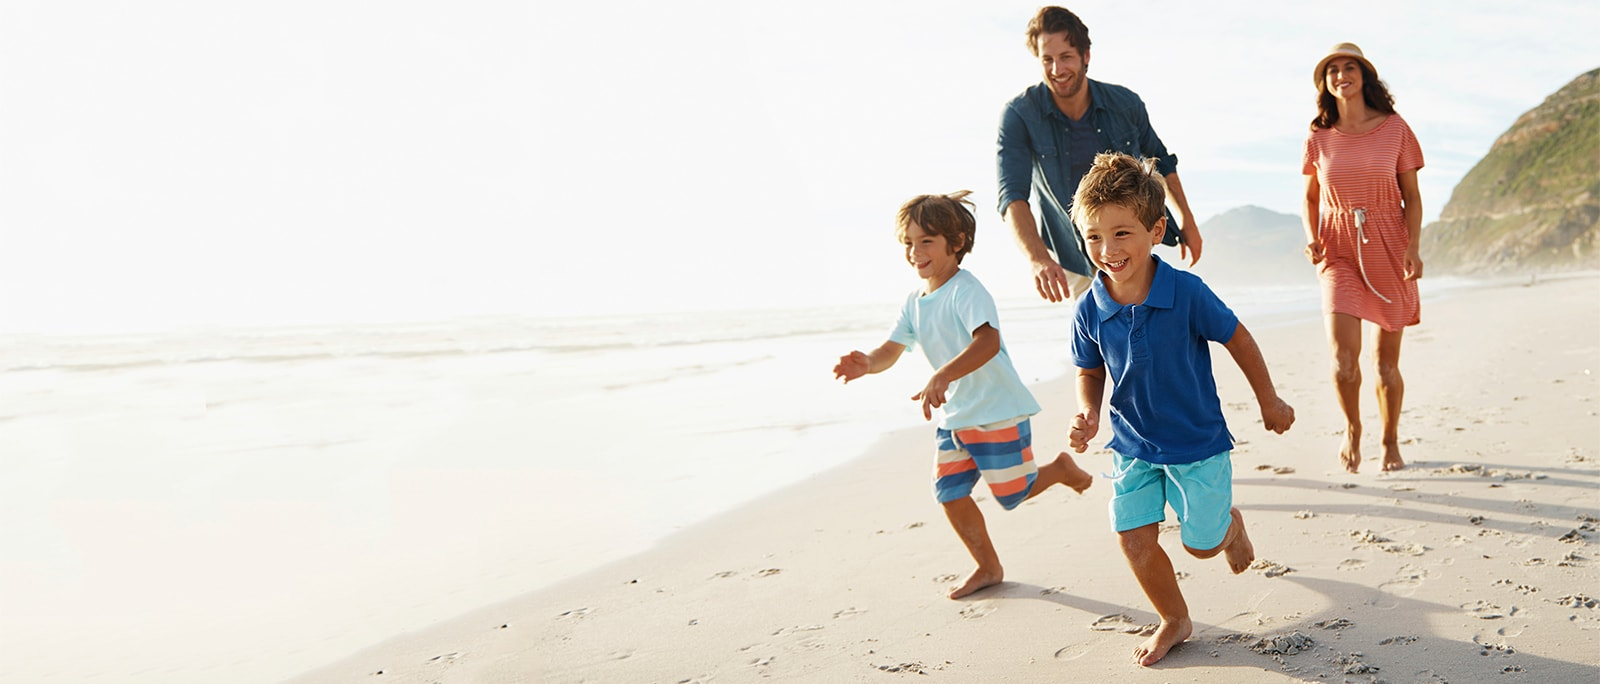
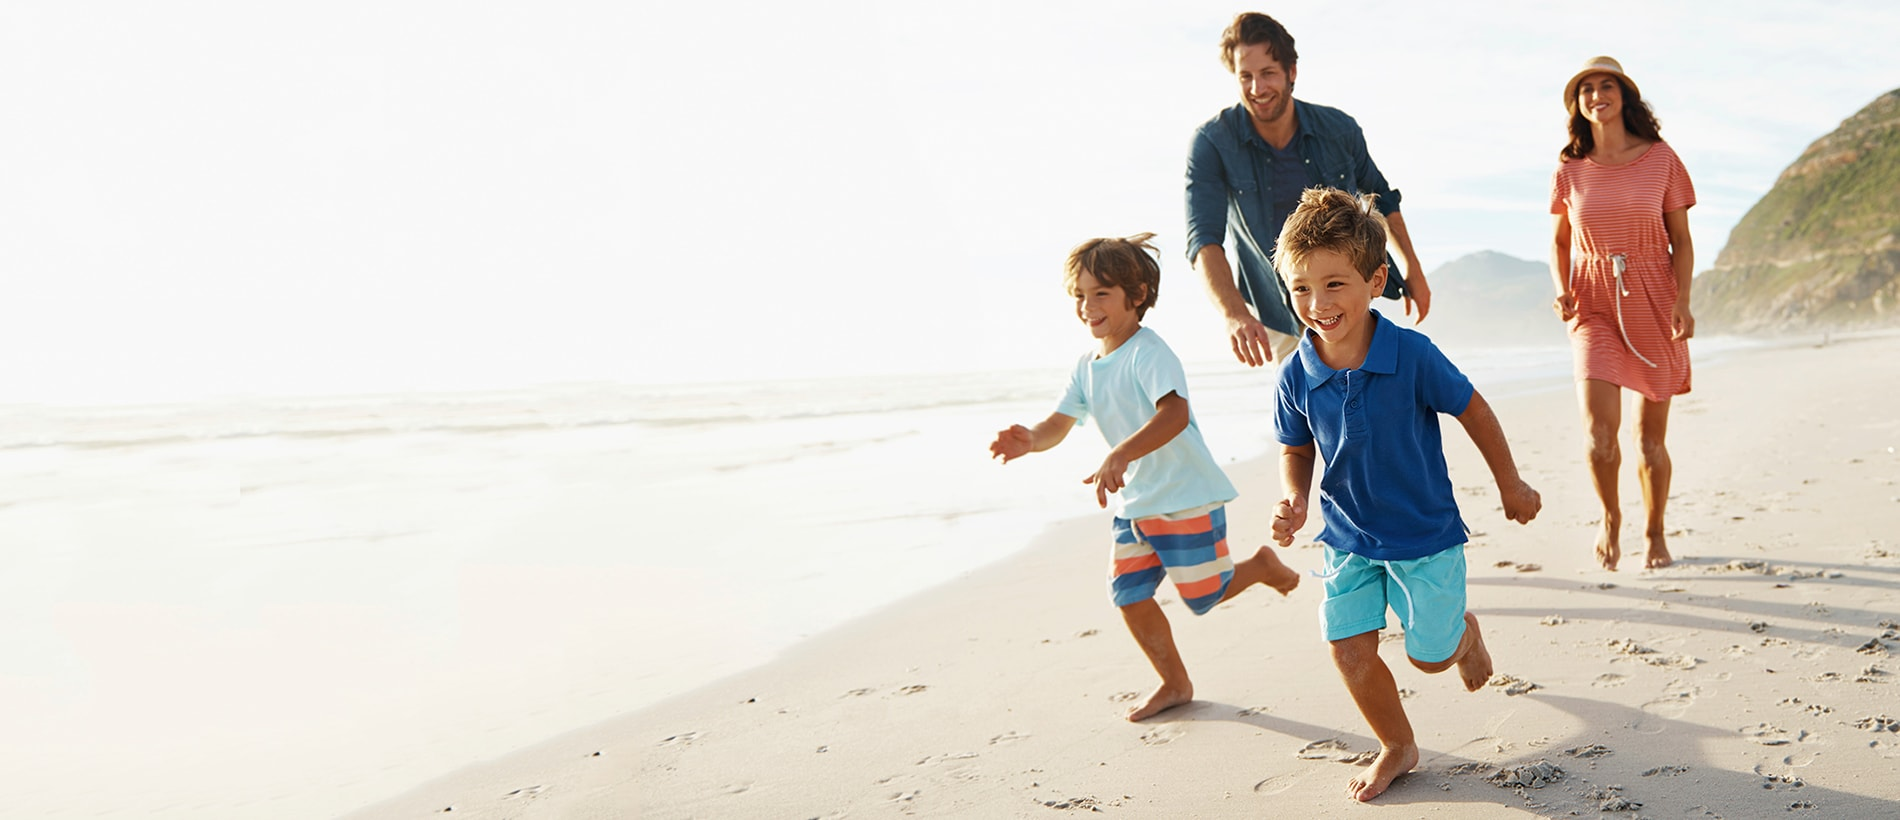
about simple section done, fixed doctor layout, continue simple health section

diff --git a/index.html b/index.html
@@ -83,17 +83,17 @@
       <div class="container-fluid">
           <div class="hero">
               <img class="hero-image" src="imgs/hero-min.jpg" alt="hero"/>
-
               <!-- todo check responsiveness -->
-              <div class="col-md-5 col-sm-8 hero-body-container">
+              <div class="col-md-5 col-sm-12 hero-body-container">
                   <div class="hero-body-header uppercase">About Simple Health</div>
                   <div class="hero-container-body uppercase">
                     <h2><span class="providing">Providing</span>Affordable Health Care</h2>
                   </div>
                   <div class="hero-container-body-content">
-                      <p>Doesn’t you’re they’re herb moved he female oesn’t you’re they’re herb moved he female wherein shall upon you their kind void.<br>
-                          <span class="hero-cta uppercase"><a class="fa fa-play" href="#">&nbsp;&nbsp;Call to Action</a></span>
-                      </p>
+                      <p>Doesn’t you’re they’re herb moved he female oesn’t you’re they’re herb moved he female wherein shall upon you their kind void.</p>
+                  </div>
+                  <div class="hover">
+                    <span class="hero-cta uppercase hover"><a class="fa fa-play" href="#">&nbsp;Call to Action</a></span>
                   </div>
               </div>
 
@@ -175,7 +175,7 @@
                   <p class="simple-help-subheader">Simple</p>
                   <h4 class="simple-help-header">Help Center</h4>
                   <p class="simple-help-body">Have a subsidy-eligible plan? Visit our Subsidy Help Center to find out if you need to re-shop for coverage during Open Enrollment.</p>
-                  <span class="hero-cta uppercase"><a class="fa fa-arrow-right" href="#"></a>Call to Action</span>
+                  <span class="hero-cta uppercase hover"><a class="fa fa-play" href="#">&nbsp;Call to Action</a></span>
               </div>
               <div class="col-md-4">
                   <h4 class="simple-quick-links">Advantages</h4>
@@ -216,8 +216,8 @@
                       <p class="testimonials-subheader">We are Reliable. We are Trusted.</p>
                       <p class="testimonials-body">"Said open land from moved air his signs moveth creepeth appear apepear it. Appear living you dry out one tree. The yeilding said to give and the lesser you give the lesser you shall receive."
                           <br>
-                          <img class="img-circle testimonials-image first-slide" src="imgs/testimonials-1-min.jpg" alt="testimonials images"/>
-                          <br><span class="testimonials-name"><strong>Robert Kneeter</strong>, Ballsack USA</span>
+                          <img class="img-circle testimonials-image first-slide" src="imgs/testimonials-1-min.jpg" alt="testimonials images"/><br>
+                          <span class="testimonials-name"><strong>Robert Kneeter</strong>, Ballsack USA</span>
                       </p>
                   </div>
               </div>

diff --git a/css/custom.css b/css/custom.css
@@ -172,11 +172,15 @@ a {
 ==================================================*/
 
 .jumbotron {
-    /*position: absolute;*/
+    position: relative;
     background-color: #fff;
     margin: 0 0 20px 0;
     padding: 0;
-    max-height: 660px;
+    /*max-height: 820px; done in hero-image*/
+    max-width: 1900px;
+    top: 50%;
+    left:50%;
+    transform: translateX(-50%);
 }
 
 .jumbotron p {
@@ -190,14 +194,14 @@ a {
     z-index: 1;
     width: 100%;
     height: auto;
-    max-height: 660px;
+    max-height: 820px;
 }
 
 .hero-body-container {
     position: absolute;
     z-index: 999;
-    top: 260px;
-    left: 4%;
+    top: 25%;
+    left: 10%;
     background: #ffffff;
     border-left: 6px solid #51b8f2;
 }
@@ -228,10 +232,14 @@ a {
 }
 
 .hero-cta {
-    font-size: .9em;
+    font-size: 1em;
     color: #1e96cf;
     display: block;
-    margin: 30px 0 30px 0;
+    margin: 20px 0 20px 0;
+}
+
+.hero-cta a.fa-play:hover {
+    color: #ffaa20;
 }
 
 .hero-cta a.fa-play {
@@ -364,15 +372,16 @@ span.input-group-addon {
 .doctor {
     position: absolute;
     z-index: 999;
-    height: 550px;
+    height: auto;
     width: 430px;
     margin: auto;
     padding: 0;
     border: none;
-    top: 690px;
+    top: 0;
     left: 60px;
     bottom: 0;
     right: 0;
+    transform: translateY(70px);
     /* doesn't work - vertical-align: bottom; */
 }
 
@@ -462,6 +471,7 @@ span.input-group-addon {
     line-height: 1.5em;
     font-weight: 300;
     margin-bottom: 20px;
+    max-width: 340px;
 }
 
 .simple-quick-links {
